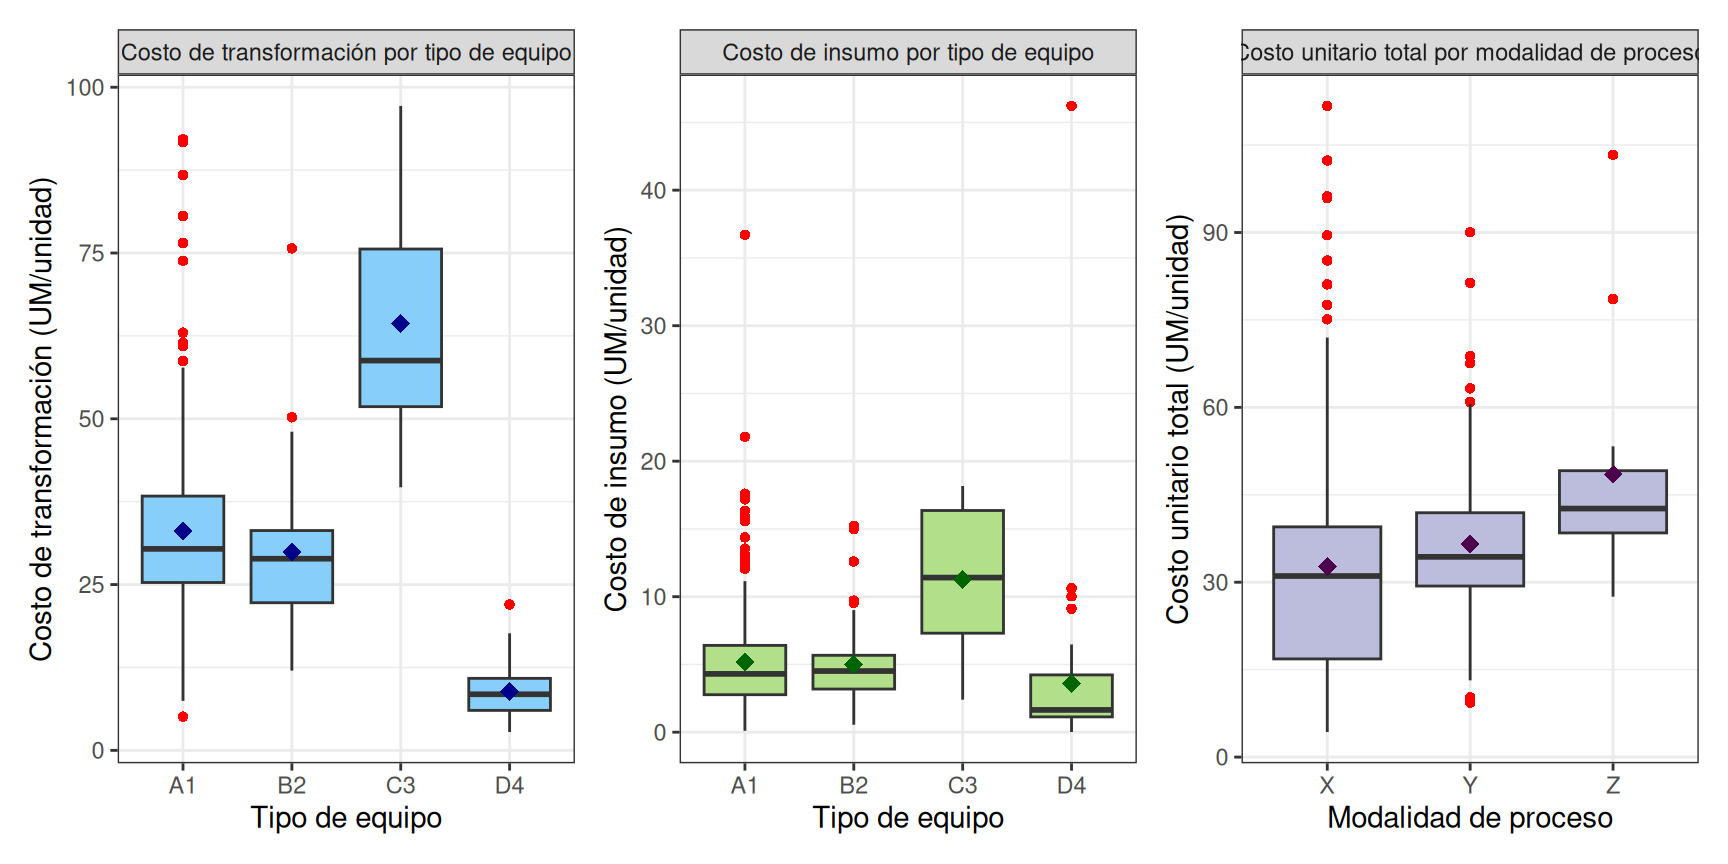
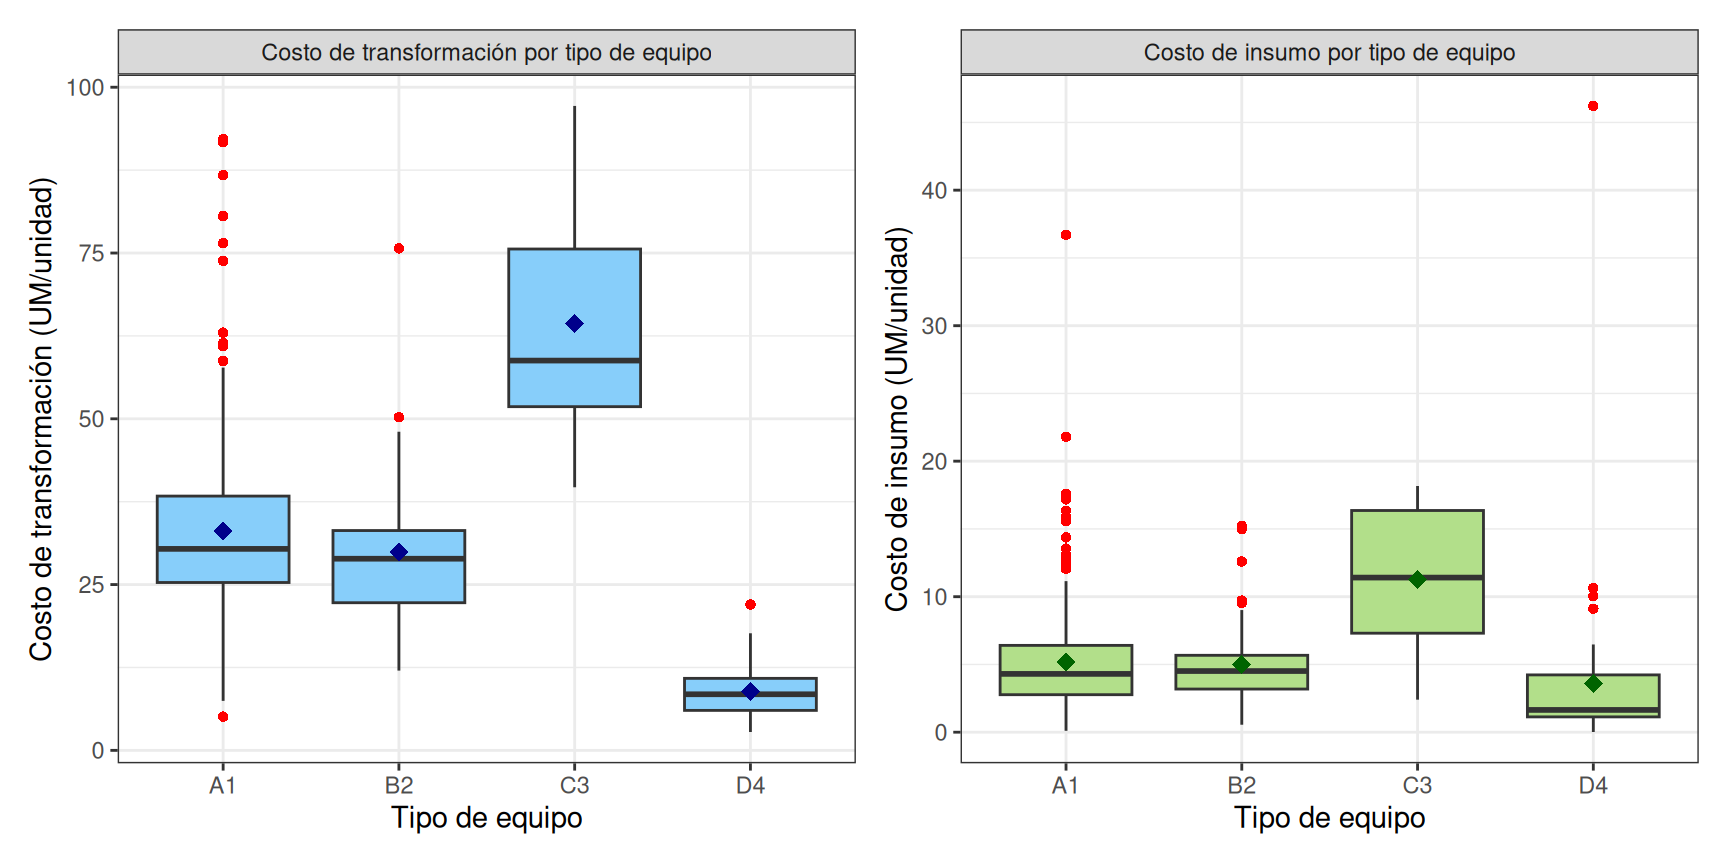
martes

diff --git a/docs/eda.html b/docs/eda.html
@@ -2552,6 +2552,11 @@ D4
 </tr>
 </tbody>
 </table>
+<p>El tipo de equipo A1, presenta un costo medio de aproximadamente 33 UM/unidad, con una dispersión moderada. Su mediana cercana a 30 confirma que el comportamiento típico está bien representado y relativamente estable. Esto lo posiciona como el estándar operativo del sistema.</p>
+<p>El tipo de equipo B2 muestra un patrón muy similar a A1, aunque con costos ligeramente menores y menor variabilidad. La cercanía entre media y mediana sugiere estabilidad, pero su menor tamaño muestral limita la robustez de la comparación.</p>
+<p>El caso de C3 es claramente distinto. Presenta costos significativamente más altos (media superior a 64) y mayor dispersión. Además, el rango intercuartílico es amplio, lo que indica que no solo es costoso, sino también variable. Esto apunta a un proceso con alta complejidad o baja eficiencia estructural.</p>
+<p>El tipo de equipo D4 tiene costos notablemente bajos (media cercana a 9). La dispersión es reducida y el comportamiento es consistente. Este equipo representa una operación altamente eficiente y controlada, con baja variabilidad. qué prácticas operativas permiten ese nivel de eficiencia y si son replicables.</p>
+<p>El costo de transformación está determinado por el tipo de equipo, y la magnitud de las diferencias es significativa.</p>
 <div class="sourceCode" id="cb42"><pre class="sourceCode r"><code class="sourceCode r"><span id="cb42-1"><a href="eda.html#cb42-1" tabindex="-1"></a>resumen_bivariado_ci <span class="ot">&lt;-</span> datos <span class="sc">%&gt;%</span></span>
 <span id="cb42-2"><a href="eda.html#cb42-2" tabindex="-1"></a>  <span class="fu">group_by</span>(tipo_equipo) <span class="sc">%&gt;%</span></span>
 <span id="cb42-3"><a href="eda.html#cb42-3" tabindex="-1"></a>  <span class="fu">summarise</span>(</span>
@@ -2738,6 +2743,11 @@ D4
 </tr>
 </tbody>
 </table>
+<p>El comportamiento de los costos de insumo por tipo de equipo muestra una estructura menos homogénea que la observada en costos de transformación. Aquí no solo cambian los niveles, sino también la forma de la distribución.</p>
+<p>Los equipos A1 y B2 presentan patrones similares: medias cercanas a 5 UM/unidad y medianas ligeramente inferiores. Esto indica una leve asimetría positiva, consistente con la presencia de algunos valores altos, pero en general con un comportamiento relativamente estable. El rango intercuartílico es moderado, lo que sugiere que el consumo de insumos en estos equipos es predecible y controlado.</p>
+<p>El equipo C3 nuevamente se diferencia de forma clara. La media (≈11.25) es más del doble que en A1 y B2, y la dispersión es considerable. Además, la mediana se mantiene alta, lo que indica que no se trata solo de valores extremos, sino de un nivel estructuralmente elevado. Este patrón sugiere que C3 no solo es más costoso en transformación, sino también en insumos, lo que refuerza la idea de un proceso intrínsecamente más intensivo o menos eficiente.</p>
+<p>El caso de D4 es el más interesante. Aunque presenta la media más baja (≈3.58), su desviación estándar es alta y supera incluso a la media. La mediana (≈1.64) está muy por debajo de la media, lo que indica una asimetría extrema. Esto implica que la mayoría de los casos tienen costos bajos, pero existen algunos valores muy altos (máximo ≈46) que distorsionan el promedio. En otras palabras, D4 es generalmente eficiente, pero con episodios puntuales de alto consumo.</p>
+<p>En conjunto, los costos de insumo muestran mayor sensibilidad a eventos extremos y menor estabilidad que los costos de transformación, especialmente en ciertos equipos.</p>
 </div>
 <div id="boxplots-por-tipo-de-equipo" class="section level3 hasAnchor" number="6.5.2">
 <h3><span class="header-section-number">6.5.2</span> Boxplots por tipo de equipo<a href="eda.html#boxplots-por-tipo-de-equipo" class="anchor-section" aria-label="Anchor link to header"></a></h3>
@@ -2760,23 +2770,8 @@ D4
 <span id="cb43-17"><a href="eda.html#cb43-17" tabindex="-1"></a>  <span class="fu">theme_bw</span>() <span class="sc">+</span></span>
 <span id="cb43-18"><a href="eda.html#cb43-18" tabindex="-1"></a>  <span class="fu">facet_grid</span>(. <span class="sc">~</span> <span class="st">&quot;Costo de insumo por tipo de equipo&quot;</span>)</span>
 <span id="cb43-19"><a href="eda.html#cb43-19" tabindex="-1"></a></span>
-<span id="cb43-20"><a href="eda.html#cb43-20" tabindex="-1"></a>box_ctot_mod <span class="ot">&lt;-</span> datos <span class="sc">%&gt;%</span></span>
-<span id="cb43-21"><a href="eda.html#cb43-21" tabindex="-1"></a>  <span class="fu">ggplot</span>(<span class="fu">aes</span>(<span class="at">x =</span> modalidad_proceso, <span class="at">y =</span> costo_unitario_total)) <span class="sc">+</span></span>
-<span id="cb43-22"><a href="eda.html#cb43-22" tabindex="-1"></a>  <span class="fu">geom_boxplot</span>(<span class="at">fill =</span> <span class="st">&quot;#bcbddc&quot;</span>, <span class="at">outlier.colour =</span> <span class="st">&quot;red&quot;</span>, <span class="at">outlier.shape =</span> <span class="dv">16</span>) <span class="sc">+</span></span>
-<span id="cb43-23"><a href="eda.html#cb43-23" tabindex="-1"></a>  <span class="fu">stat_summary</span>(<span class="at">fun =</span> mean, <span class="at">geom =</span> <span class="st">&quot;point&quot;</span>, <span class="at">shape =</span> <span class="dv">18</span>, <span class="at">size =</span> <span class="dv">3</span>, <span class="at">color =</span> <span class="st">&quot;#4d004b&quot;</span>) <span class="sc">+</span></span>
-<span id="cb43-24"><a href="eda.html#cb43-24" tabindex="-1"></a>  <span class="fu">labs</span>(<span class="at">x =</span> <span class="st">&quot;Modalidad de proceso&quot;</span>,</span>
-<span id="cb43-25"><a href="eda.html#cb43-25" tabindex="-1"></a>       <span class="at">y =</span> <span class="st">&quot;Costo unitario total (UM/unidad)&quot;</span>) <span class="sc">+</span></span>
-<span id="cb43-26"><a href="eda.html#cb43-26" tabindex="-1"></a>  <span class="fu">theme_bw</span>() <span class="sc">+</span></span>
-<span id="cb43-27"><a href="eda.html#cb43-27" tabindex="-1"></a>  <span class="fu">facet_grid</span>(. <span class="sc">~</span> <span class="st">&quot;Costo unitario total por modalidad de proceso&quot;</span>)</span>
-<span id="cb43-28"><a href="eda.html#cb43-28" tabindex="-1"></a></span>
-<span id="cb43-29"><a href="eda.html#cb43-29" tabindex="-1"></a></span>
-<span id="cb43-30"><a href="eda.html#cb43-30" tabindex="-1"></a>box_ct_te <span class="sc">+</span> box_ci_te <span class="sc">+</span> box_ctot_mod </span></code></pre></div>
+<span id="cb43-20"><a href="eda.html#cb43-20" tabindex="-1"></a>box_ct_te <span class="sc">+</span> box_ci_te </span></code></pre></div>
 <p><img src="libro-maestria-estadistica-aplicada_files/figure-html/boxequipo-1.png" alt="" width="90%" style="display: block; margin: auto;" /></p>
-<p>El tipo de equipo A1, presenta un costo medio de aproximadamente 33 UM/unidad, con una dispersión moderada. Su mediana cercana a 30 confirma que el comportamiento típico está bien representado y relativamente estable. Esto lo posiciona como el estándar operativo del sistema.</p>
-<p>El tipo de equipo B2 muestra un patrón muy similar a A1, aunque con costos ligeramente menores y menor variabilidad. La cercanía entre media y mediana sugiere estabilidad, pero su menor tamaño muestral limita la robustez de la comparación.</p>
-<p>El caso de C3 es claramente distinto. Presenta costos significativamente más altos (media superior a 64) y mayor dispersión. Además, el rango intercuartílico es amplio, lo que indica que no solo es costoso, sino también variable. Esto apunta a un proceso con alta complejidad o baja eficiencia estructural.</p>
-<p>El tipo de equipo D4 tiene costos notablemente bajos (media cercana a 9). La dispersión es reducida y el comportamiento es consistente. Este equipo representa una operación altamente eficiente y controlada, con baja variabilidad. qué prácticas operativas permiten ese nivel de eficiencia y si son replicables.</p>
-<p>El costo de transformación está determinado por el tipo de equipo, y la magnitud de las diferencias es significativa.</p>
 </div>
 <div id="tablas-resumen-por-numero-de-insumos" class="section level3 hasAnchor" number="6.5.3">
 <h3><span class="header-section-number">6.5.3</span> Tablas resumen por numero de insumos<a href="eda.html#tablas-resumen-por-numero-de-insumos" class="anchor-section" aria-label="Anchor link to header"></a></h3>
